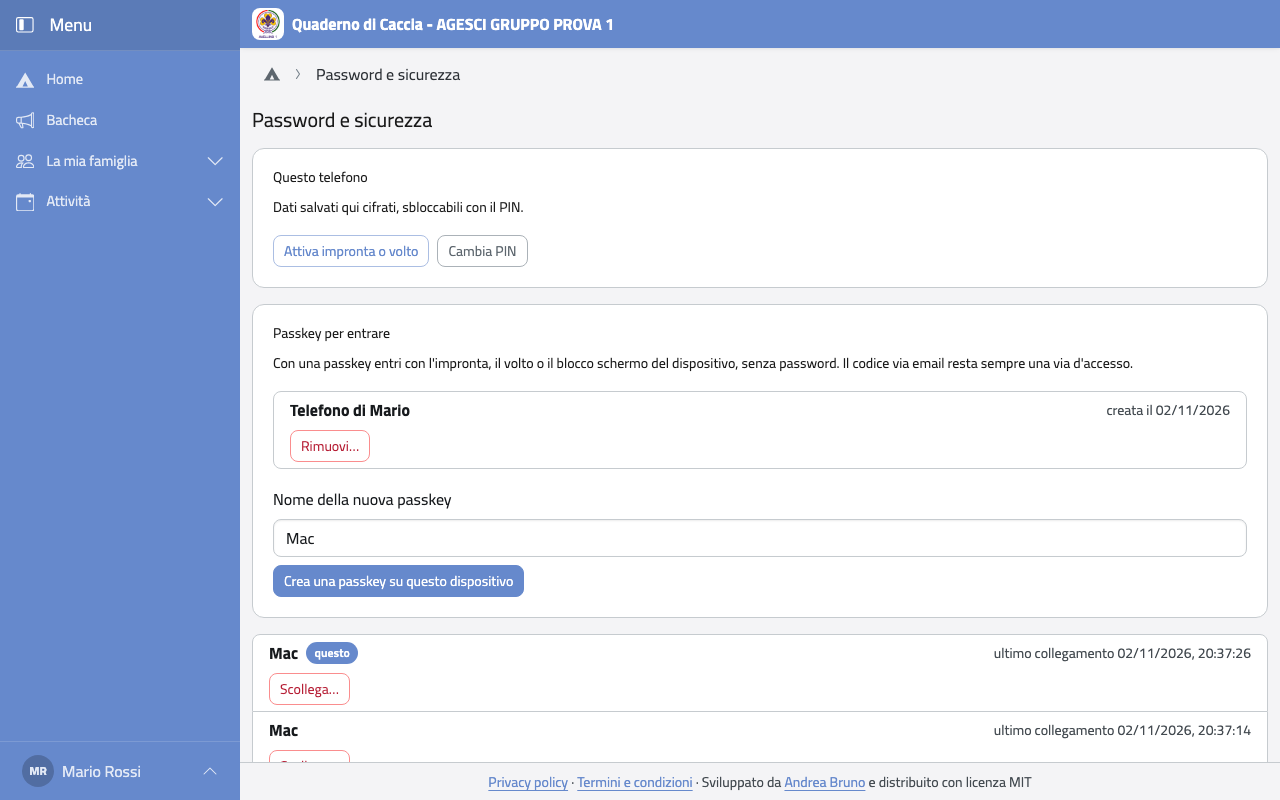
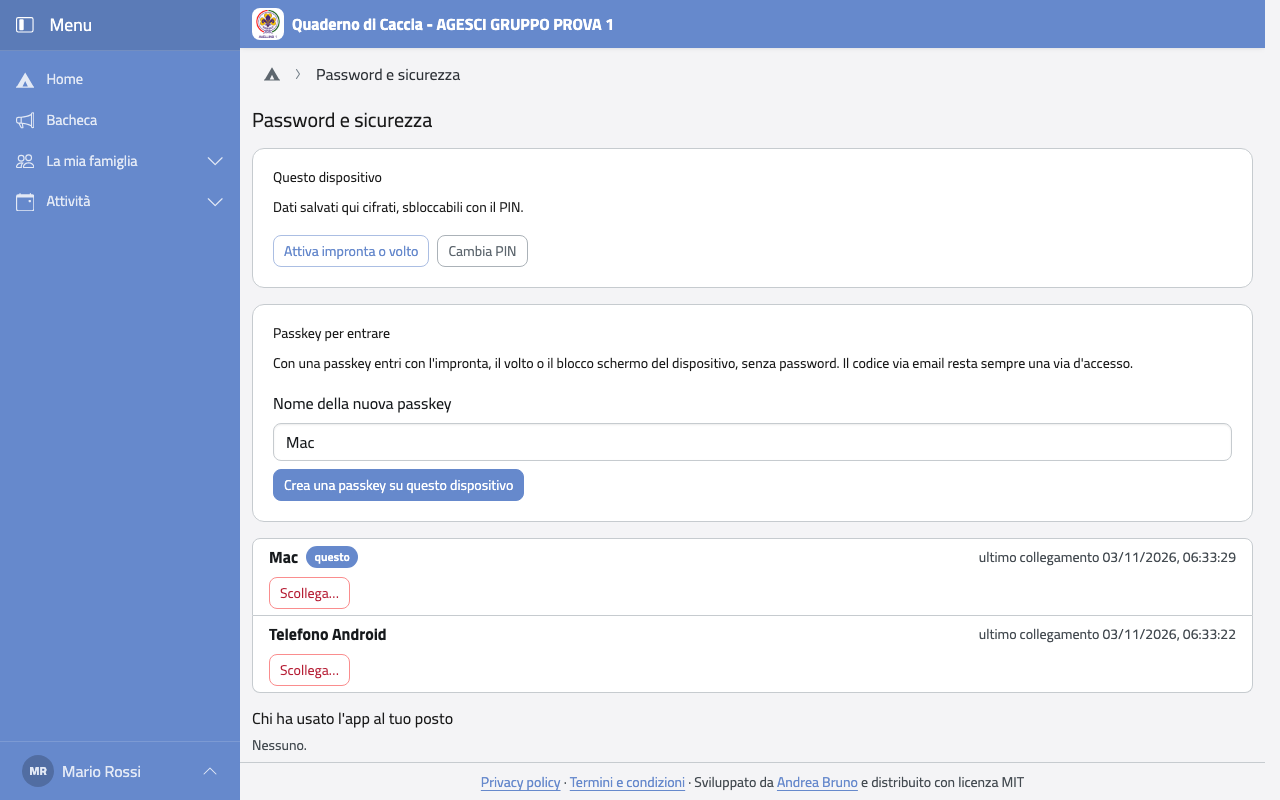
Unlock passkey: ask for this device, remove unused ones, recognisable name
The fingerprint unlock asks for the passkey on this device (hints client-device,
transport internal) instead of offering a phone. A passkey no longer used, after a
wipe or when the fingerprint is switched off or set again, is signalled to the
password manager for removal where the browser supports it. Its name carries the
device and the day. The data-protection texts say 'questo dispositivo'.

diff --git a/frontend/src/sicurezza/cassaforte.ts b/frontend/src/sicurezza/cassaforte.ts
@@ -26,7 +26,7 @@ import {
   svolgi,
   type Cifrato,
 } from './cripto'
-import { creaCredenziale, leggiSegreto } from './biometria'
+import { creaCredenziale, dimenticaCredenziale, leggiSegreto } from './biometria'
 import {
   cancellaTutto,
   db as dbPredefinito,
@@ -44,7 +44,7 @@ export const LUNGHEZZA_MINIMA_PIN = 6
 export class PinErrato extends Error {
   constructor(public readonly rimasti: number) {
     super(
-      `PIN errato: ancora ${rimasti} tentativi, poi i dati su questo telefono verranno cancellati.`,
+      `PIN errato: ancora ${rimasti} tentativi, poi i dati su questo dispositivo verranno cancellati.`,
     )
   }
 }
@@ -58,11 +58,11 @@ export class DatiCancellati extends Error {
 export const MESSAGGI_CANCELLAZIONE: Record<MotivoCancellazione, string> = {
   revocato: 'Questo dispositivo è stato scollegato: i dati salvati qui sono stati cancellati.',
   scaduto:
-    'Il telefono non si collega da troppi giorni: per sicurezza i dati salvati qui sono stati cancellati.',
-  tentativi: 'Troppi PIN errati: i dati salvati su questo telefono sono stati cancellati.',
+    'Il dispositivo non si collega da troppi giorni: per sicurezza i dati salvati qui sono stati cancellati.',
+  tentativi: 'Troppi PIN errati: i dati salvati su questo dispositivo sono stati cancellati.',
   altro_account:
     "Hai effettuato l'accesso con un altro account: i dati del precedente sono stati cancellati.",
-  uscita: 'Sei uscito: i dati salvati su questo telefono sono stati cancellati.',
+  uscita: 'Sei uscito: i dati salvati su questo dispositivo sono stati cancellati.',
 }
 
 export const EVENTO_CANCELLAZIONE = 'qdc:dati-cancellati'
@@ -116,12 +116,15 @@ async function salva() {
 
 /** Deletes every local trace and tells the app (App.vue shows the reason). */
 export async function cancella(motivo: MotivoCancellazione): Promise<void> {
+  const passkey = configurazione?.biometria?.idCredenziale
   chiaveDati = null
   configurazione = undefined
   if (motivo === 'uscita') await svuotaDatiLocali(database)
   else await cancellaTutto(database)
   aggiornaStato()
   ultimoMotivo.value = motivo
+  // The next login creates a new unlock passkey: this one would stay in the manager.
+  if (passkey) void dimenticaCredenziale(passkey)
   if (typeof window !== 'undefined') {
     window.dispatchEvent(new CustomEvent(EVENTO_CANCELLAZIONE, { detail: motivo }))
   }
@@ -203,16 +206,21 @@ export async function attivaBiometria(
 ): Promise<void> {
   if (!configurazione || !chiaveDati) throw new Error('Sblocca prima con il PIN.')
   const sale = casuali(32)
-  const { idCredenziale, segreto } = await crea(email, sale)
+  const nome = (await database.meta.get('dispositivo_nome'))?.valore
+  const { idCredenziale, segreto } = await crea(email, sale, nome)
   const kek = await chiaveDaSegreto(segreto, sale)
+  const prima = configurazione.biometria?.idCredenziale
   configurazione.biometria = { ...(await avvolgi(chiaveDati, kek)), sale, idCredenziale }
   await salva()
+  if (prima) void dimenticaCredenziale(prima)
 }
 
 export async function disattivaBiometria(): Promise<void> {
   if (!configurazione) return
+  const prima = configurazione.biometria?.idCredenziale
   delete configurazione.biometria
   await salva()
+  if (prima) void dimenticaCredenziale(prima)
 }
 
 export async function sbloccaConBiometria(
@@ -233,7 +241,7 @@ export function blocca(): void {
 
 export class CassaforteBloccata extends Error {
   constructor() {
-    super('Sblocca l’app per leggere i dati salvati sul telefono.')
+    super('Sblocca l’app per leggere i dati salvati su questo dispositivo.')
   }
 }
 

diff --git a/frontend/src/sicurezza/biometria.ts b/frontend/src/sicurezza/biometria.ts
@@ -45,27 +45,48 @@ export async function leggiSegreto(
   idCredenziale: ArrayBuffer,
   sale: Uint8Array<ArrayBuffer>,
 ): Promise<ArrayBuffer> {
+  // `hints` (WebAuthn level 3) is typed only in the JSON variants of the options.
+  const opzioni: PublicKeyCredentialRequestOptions & { hints: string[] } = {
+    challenge: casuali(32),
+    // The passkey is on this device (created as `platform`): no QR code for a phone.
+    // Chrome as an installed app on macOS offered only the phone [da verificare].
+    allowCredentials: [{ type: 'public-key', id: idCredenziale, transports: ['internal'] }],
+    hints: ['client-device'],
+    userVerification: 'required',
+    extensions: { prf: { eval: { first: sale } } },
+  }
   const credenziale = (await navigator.credentials.get({
-    publicKey: {
-      challenge: casuali(32),
-      allowCredentials: [{ type: 'public-key', id: idCredenziale }],
-      userVerification: 'required',
-      extensions: { prf: { eval: { first: sale } } },
-    },
+    publicKey: opzioni,
   })) as PublicKeyCredential | null
   const segreto = credenziale && segretoDa(credenziale)
   if (!segreto) throw new BiometriaNonDisponibile()
   return segreto
 }
 
+/**
+ * `dispositivo` and the day go in the name, so that in the password manager (where a new
+ * one appears after every wipe) the one in use can be told apart. What each manager
+ * shows, `name` or `displayName`, varies [da verificare]: both carry them.
+ */
 export async function creaCredenziale(
   email: string,
   sale: Uint8Array<ArrayBuffer>,
+  dispositivo = 'questo dispositivo',
+  oggi = new Date(),
 ): Promise<{ idCredenziale: ArrayBuffer; segreto: ArrayBuffer }> {
+  const quando = oggi.toLocaleDateString('it-IT', {
+    day: '2-digit',
+    month: '2-digit',
+    year: 'numeric',
+  })
   const credenziale = (await navigator.credentials.create({
     publicKey: {
       rp: { name: 'Quaderno di Caccia' },
-      user: { id: casuali(16), name: email, displayName: `Sblocco QdC — ${email}` },
+      user: {
+        id: casuali(16),
+        name: `${email} (sblocco ${dispositivo}, ${quando})`,
+        displayName: `Sblocco QdC — ${dispositivo}, ${quando}`,
+      },
       challenge: casuali(32),
       pubKeyCredParams: [
         { type: 'public-key', alg: -7 },
@@ -85,4 +106,29 @@ export async function creaCredenziale(
   // Some authenticators return the secret only on get(), not on create().
   const segreto = segretoDa(credenziale) ?? (await leggiSegreto(credenziale.rawId, sale))
   return { idCredenziale: credenziale.rawId, segreto }
+}
+
+function base64url(dati: ArrayBuffer): string {
+  let binario = ''
+  for (const byte of new Uint8Array(dati)) binario += String.fromCharCode(byte)
+  return btoa(binario).replace(/\+/g, '-').replace(/\//g, '_').replace(/=+$/, '')
+}
+
+/**
+ * Asks the password manager to remove an unlock passkey the app no longer uses (WebAuthn
+ * Signal API): after a wipe or when the fingerprint is switched off. Where the browser
+ * lacks it nothing happens, and the user may delete it by hand. Never throws.
+ */
+export async function dimenticaCredenziale(idCredenziale: ArrayBuffer): Promise<void> {
+  if (typeof PublicKeyCredential === 'undefined') return
+  if (typeof PublicKeyCredential.signalUnknownCredential !== 'function') return
+  try {
+    // No `rp.id` at creation: the passkey belongs to this host.
+    await PublicKeyCredential.signalUnknownCredential({
+      rpId: location.hostname,
+      credentialId: base64url(idCredenziale),
+    })
+  } catch {
+    // Best effort: the passkey stays in the manager, as before.
+  }
 }

diff --git a/frontend/src/views/ProtezioneView.vue b/frontend/src/views/ProtezioneView.vue
@@ -80,20 +80,20 @@ async function soloOnline() {
 
 <template>
   <section class="mx-auto" style="max-width: 30rem">
-    <h1 class="h4 mb-5">Proteggi i dati su questo telefono</h1>
+    <h1 class="h4 mb-5">Proteggi i dati su questo dispositivo</h1>
     <p>
-      Per funzionare anche senza rete, l'app salva su questo telefono una copia dei dati che puoi
+      Per funzionare anche senza rete, l'app salva su questo dispositivo una copia dei dati che puoi
       vedere: contatti, e per i capi farmaci e allergie dei ragazzi. Sono dati di minori: la copia
       viene cifrata e si apre solo con un PIN, o con impronta o volto.
     </p>
     <ul class="small">
       <li>Dopo {{ MINUTI_BLOCCO }} minuti senza usarla l'app si blocca.</li>
-      <li>Dopo {{ TENTATIVI_MASSIMI }} PIN sbagliati la copia sul telefono viene cancellata.</li>
-      <li>Se perdi il telefono, tu o un capogruppo potete scollegarlo a distanza.</li>
-      <li>Se il telefono non si collega per molti giorni, la copia si cancella da sola.</li>
+      <li>Dopo {{ TENTATIVI_MASSIMI }} PIN sbagliati la copia sul dispositivo viene cancellata.</li>
+      <li>Se perdi il dispositivo, tu o un capogruppo potete scollegarlo a distanza.</li>
+      <li>Se il dispositivo non si collega per molti giorni, la copia si cancella da sola.</li>
     </ul>
     <div v-if="giaConfigurata" class="alert theme-warning small">
-      Impostando un nuovo PIN la copia attuale sul telefono viene cancellata e riscaricata.
+      Impostando un nuovo PIN la copia attuale sul dispositivo viene cancellata e riscaricata.
     </div>
     <div v-if="errore" class="alert theme-danger" role="alert">{{ errore }}</div>
     <div v-if="avviso" class="alert theme-warning" role="status">
@@ -140,8 +140,8 @@ async function soloOnline() {
 
     <hr />
     <p class="small mb-3">
-      Preferisci non salvare niente su questo telefono (ad esempio se non è tuo)? L'app funzionerà
-      solo con la rete.
+      Preferisci non salvare niente su questo dispositivo (ad esempio se non è tuo)? L'app
+      funzionerà solo con la rete.
       <template v-if="sessione.capo"> Al campo, senza rete, non avrai i dati dei ragazzi.</template>
     </p>
     <button type="button" class="btn btn-outline theme-secondary btn-sm" @click="soloOnline">

diff --git a/frontend/src/__tests__/cassaforte.spec.ts b/frontend/src/__tests__/cassaforte.spec.ts
@@ -2,6 +2,7 @@ import { afterEach, beforeEach, describe, expect, it, vi } from 'vitest'
 
 import { leggiDallaCache, salvaInCache } from '@/offline/cache'
 import type { DatabaseQdc } from '@/offline/db'
+import type { creaCredenziale } from '@/sicurezza/biometria'
 import * as cassaforte from '@/sicurezza/cassaforte'
 
 import { ITERAZIONI_TEST, PIN, cassaforteSbloccata, nuovoDatabase } from './aiuti'
@@ -109,6 +110,37 @@ describe('cassaforte', () => {
     ).rejects.toThrow()
     await cassaforte.sbloccaConBiometria(async () => segreto)
     expect((await leggiDallaCache('k', database))!.dati).toEqual({ v: 2 })
+  })
+
+  it('la passkey di sblocco che non serve più si toglie dal gestore delle password', async () => {
+    const segnalate: string[] = []
+    vi.stubGlobal('PublicKeyCredential', {
+      signalUnknownCredential: vi.fn(async (o: { credentialId: string }) => {
+        segnalate.push(o.credentialId)
+      }),
+    })
+    try {
+      await cassaforteSbloccata()
+      await database.meta.put({ chiave: 'dispositivo_nome', valore: 'Mac di Andrea' })
+      const segreto = crypto.getRandomValues(new Uint8Array(32)).buffer
+      const crea = vi.fn<typeof creaCredenziale>(async () => ({
+        idCredenziale: new Uint8Array([251, 255, 1]).buffer,
+        segreto,
+      }))
+      await cassaforte.attivaBiometria('capo@example.invalid', crea)
+      // The device name goes into the passkey's name.
+      expect(crea.mock.calls[0]![2]).toBe('Mac di Andrea')
+      expect(segnalate).toEqual([])
+      // Switched off: the manager is asked to remove it (base64url, no padding).
+      await cassaforte.disattivaBiometria()
+      await vi.waitFor(() => expect(segnalate).toEqual(['-_8B']))
+      // Wiped with the fingerprint on: the same.
+      await cassaforte.attivaBiometria('capo@example.invalid', crea)
+      await cassaforte.cancella('uscita')
+      await vi.waitFor(() => expect(segnalate).toEqual(['-_8B', '-_8B']))
+    } finally {
+      vi.unstubAllGlobals()
+    }
   })
 
   it('oltre la scadenza offline i dati si cancellano da soli', async () => {

diff --git a/frontend/src/__tests__/biometria.spec.ts b/frontend/src/__tests__/biometria.spec.ts
@@ -1,0 +1,47 @@
+import { afterEach, describe, expect, it, vi } from 'vitest'
+
+import { creaCredenziale, leggiSegreto } from '@/sicurezza/biometria'
+
+const segreto = new Uint8Array(32).fill(7).buffer
+const credenziale = {
+  rawId: new Uint8Array([1, 2, 3]).buffer,
+  getClientExtensionResults: () => ({ prf: { enabled: true, results: { first: segreto } } }),
+}
+
+function finte() {
+  const crea = vi.fn<(o: CredentialCreationOptions) => Promise<typeof credenziale>>(
+    async () => credenziale,
+  )
+  const leggi = vi.fn<(o: CredentialRequestOptions) => Promise<typeof credenziale>>(
+    async () => credenziale,
+  )
+  vi.stubGlobal('navigator', { credentials: { create: crea, get: leggi } })
+  return { crea, leggi }
+}
+
+afterEach(() => vi.unstubAllGlobals())
+
+describe('biometria', () => {
+  it('names the unlock passkey with the device and the day', async () => {
+    const { crea } = finte()
+    await creaCredenziale(
+      'capo@example.invalid',
+      new Uint8Array(32),
+      'Mac di Andrea',
+      new Date(2026, 10, 3),
+    )
+    const utente = crea.mock.calls[0]![0].publicKey!.user
+    expect(utente.name).toBe('capo@example.invalid (sblocco Mac di Andrea, 03/11/2026)')
+    expect(utente.displayName).toBe('Sblocco QdC — Mac di Andrea, 03/11/2026')
+  })
+
+  it('asks for the passkey on this device, not a phone', async () => {
+    const { leggi } = finte()
+    expect(await leggiSegreto(credenziale.rawId, new Uint8Array(32))).toBe(segreto)
+    const opzioni = leggi.mock.calls[0]![0].publicKey as PublicKeyCredentialRequestOptions & {
+      hints: string[]
+    }
+    expect(opzioni.hints).toEqual(['client-device'])
+    expect(opzioni.allowCredentials![0]!.transports).toEqual(['internal'])
+  })
+})

diff --git a/frontend/src/views/CampoView.vue b/frontend/src/views/CampoView.vue
@@ -86,7 +86,7 @@ watch(scelta, async (valore) => {
     <h1 class="h4 mb-5">Al campo</h1>
     <div v-if="!puoSalvare" class="alert theme-warning">
       <div>
-        Su questo telefono non salvi dati: senza rete non li vedrai.
+        Su questo dispositivo non salvi dati: senza rete non li vedrai.
         <RouterLink :to="{ name: 'protezione', query: { prossima: '/campo' } }"
           >Attiva la protezione con PIN</RouterLink
         >
@@ -108,7 +108,7 @@ watch(scelta, async (valore) => {
           :disabled="scelta === undefined || inCorso"
           @click="aggiorna"
         >
-          {{ campo ? 'Aggiorna' : 'Scarica sul telefono' }}
+          {{ campo ? 'Aggiorna' : 'Scarica sul dispositivo' }}
         </button>
       </div>
     </div>
@@ -176,7 +176,7 @@ watch(scelta, async (valore) => {
       </div>
     </template>
     <p v-else-if="scelta !== undefined && !inCorso" class="fg-2">
-      Nessuna copia su questo telefono: scaricala finché c'è rete.
+      Nessuna copia su questo dispositivo: scaricala finché c'è rete.
     </p>
   </section>
 </template>

diff --git a/frontend/src/components/ManutenzioneSito.vue b/frontend/src/components/ManutenzioneSito.vue
@@ -31,8 +31,9 @@ async function imposta(attiva: boolean) {
       Mentre la manutenzione è attiva entrano solo gli amministratori tecnici. Tutti gli altri
       vedono il messaggio qui sotto al posto delle pagine, anche chi è già dentro, e si fermano
       anche la richiesta di iscrizione, la lista d'attesa e il calendario. Restano aperte la pagina
-      di accesso, la privacy policy e i termini. Quello che i capi hanno salvato sul telefono non si
-      perde: le modifiche fatte senza rete partono quando la manutenzione finisce.
+      di accesso, la privacy policy e i termini. Quello che i capi hanno salvato su questo
+      dispositivo non si perde: le modifiche fatte senza rete partono quando la manutenzione
+      finisce.
     </p>
     <div v-if="errore" class="alert theme-danger small" role="alert">{{ errore }}</div>
     <div class="card card-body">

diff --git a/frontend/src/views/SbloccoView.vue b/frontend/src/views/SbloccoView.vue
@@ -59,7 +59,7 @@ async function esciECancella() {
 <template>
   <section class="mx-auto text-center" style="max-width: 22rem">
     <h1 class="h4 mb-5">App bloccata</h1>
-    <p class="small">Inserisci il PIN per vedere i dati salvati su questo telefono.</p>
+    <p class="small">Inserisci il PIN per vedere i dati salvati su questo dispositivo.</p>
     <div v-if="errore" class="alert theme-danger" role="alert">{{ errore }}</div>
     <button
       v-if="biometriaAttiva"
@@ -85,7 +85,7 @@ async function esciECancella() {
       </button>
     </form>
     <button type="button" class="btn btn-link btn-sm mt-5" @click="esciECancella">
-      Non sei tu? Esci e cancella i dati da questo telefono
+      Non sei tu? Esci e cancella i dati da questo dispositivo
     </button>
   </section>
 </template>

diff --git a/frontend/src/components/SchermataManutenzione.vue b/frontend/src/components/SchermataManutenzione.vue
@@ -32,8 +32,8 @@ onBeforeUnmount(() => clearInterval(timer))
     <h1 class="h4">L'app è in manutenzione</h1>
     <p class="my-5">{{ sito.sito.messaggio_manutenzione }}</p>
     <p class="fg-2 small">
-      Le modifiche che hai fatto senza rete restano su questo telefono e partono da sole quando la
-      manutenzione finisce. Questa pagina si aggiorna da sola ogni minuto.
+      Le modifiche che hai fatto senza rete restano su questo dispositivo e partono da sole quando
+      la manutenzione finisce. Questa pagina si aggiorna da sola ogni minuto.
     </p>
     <button
       type="button"

diff --git a/frontend/scripts/schermate.ts b/frontend/scripts/schermate.ts
@@ -466,7 +466,7 @@ const SCENE: Scena[] = [
     percorso: '/campo',
     prepara: async (pagina) => {
       await pagina.getByRole('combobox').first().selectOption({ label: 'Reparto Antares (N1)' })
-      await pagina.getByRole('button', { name: 'Scarica sul telefono' }).click()
+      await pagina.getByRole('button', { name: 'Scarica sul dispositivo' }).click()
       await pagina
         .getByText('Cerca per nome')
         .or(pagina.getByPlaceholder('Cerca per nome'))

diff --git a/frontend/src/views/SpeseView.vue b/frontend/src/views/SpeseView.vue
@@ -64,7 +64,7 @@ async function registra() {
   if (!risultato) return
   Object.assign(modulo, { data: oggi(), importo: '', descrizione: '', giustificativo: '' })
   esito.value = risultato.inCoda
-    ? 'Spesa salvata sul telefono: arriverà al tesoriere appena torna la rete.'
+    ? 'Spesa salvata su questo dispositivo: arriverà al tesoriere appena torna la rete.'
     : 'Spesa registrata: il tesoriere la rimborserà.'
   if (!risultato.inCoda) await carica()
 }

diff --git a/frontend/src/components/QuotePersona.vue b/frontend/src/components/QuotePersona.vue
@@ -117,7 +117,7 @@ async function registra() {
   if (!risultato) return
   modulo.aperto = false
   esito.value = risultato.inCoda
-    ? 'Pagamento salvato sul telefono: sarà registrato, con la sua ricevuta, appena torna la rete.'
+    ? 'Pagamento salvato su questo dispositivo: sarà registrato, con la sua ricevuta, appena torna la rete.'
     : 'Pagamento registrato: la ricevuta è partita per email.'
   if (!risultato.inCoda) await carica(props.id)
 }
